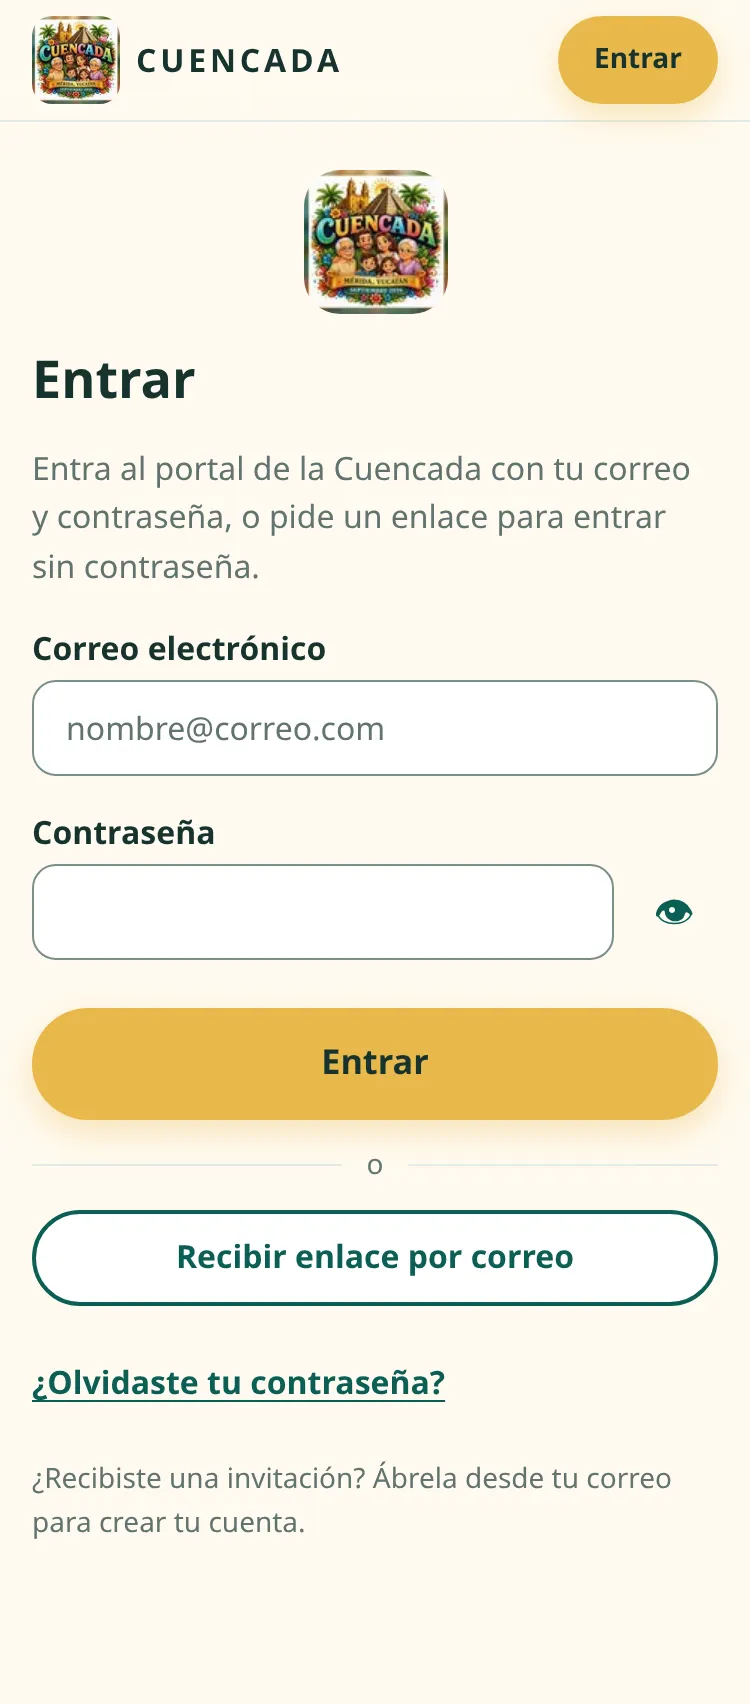
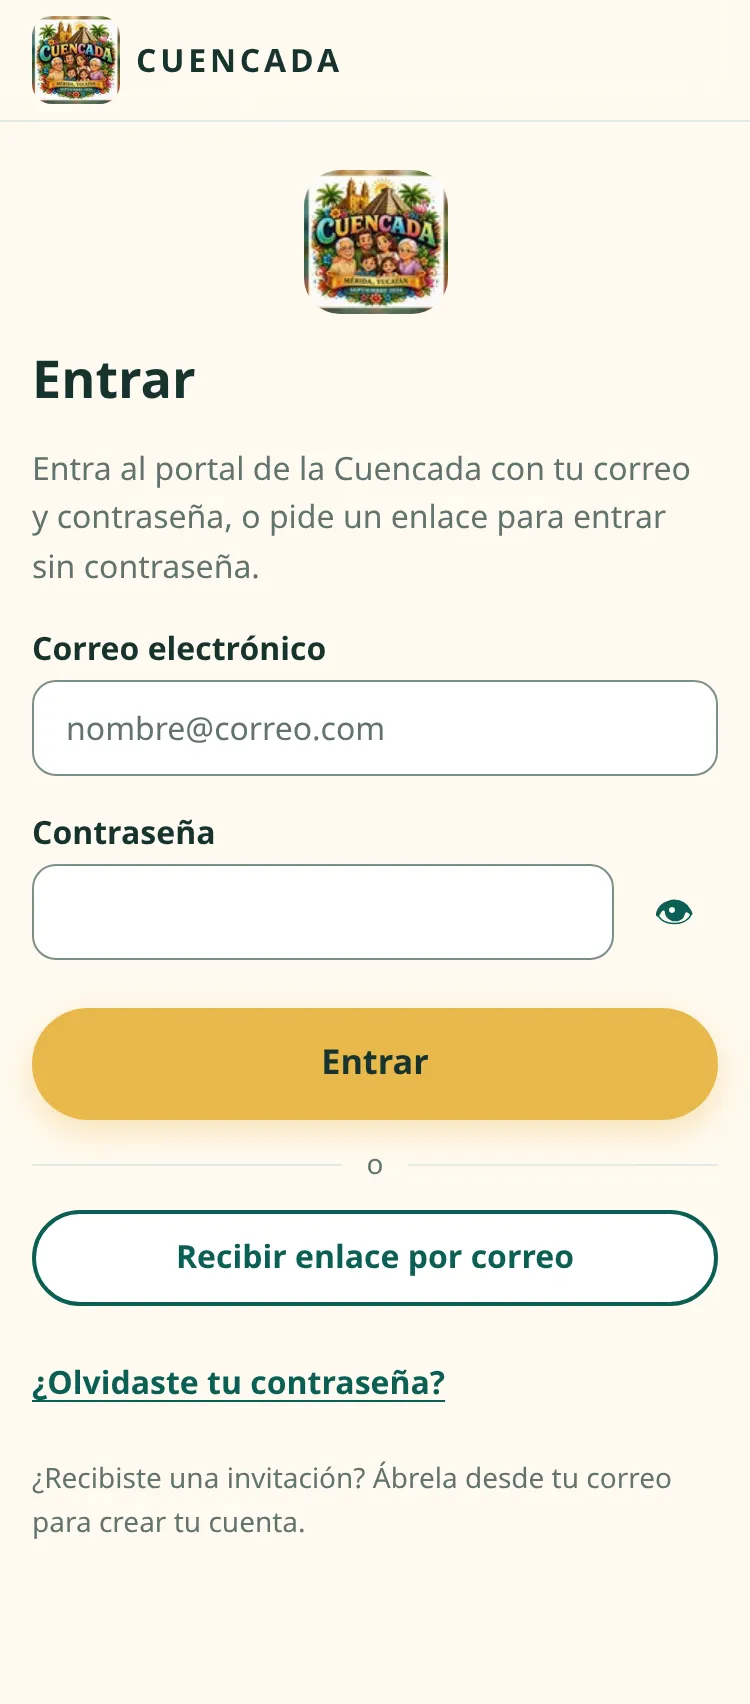
T1-FE: WP review log for PR #10 round 1; re-take screenshots
Claude-Session: https://claude.ai/code/session_01Bj2xLmagfFJ5w53HEUn9Sj

Changed region(s): [[0.736, 0.0, 0.9813, 0.0933]]

diff --git a/docs/coordination/WP-T1-FE.md b/docs/coordination/WP-T1-FE.md
@@ -156,9 +156,66 @@ No changes to `packages/types/src/auth.ts`.
   - Taken with headless Chromium against the Vite dev server, with `/api` proxied to a throwaway stub. Neither the stub nor the temporary config was committed.
   - **Horizontal overflow** is 0 px at 320, 375 and 1280 on all four pages, measured as the max `getBoundingClientRect().right` of every element in `<main>` minus the viewport width.
 
+## PR #10 review round 1 (Security M1/L2, TL #1/#2/#4, nits)
+- **M1, no silent account switching / login CSRF [SEC]** (`components/SessionConflict.tsx`):
+  - `useSessionGate()` returns `waiting` (boot refresh still running: show a spinner and do nothing), `conflict` (someone is logged in) or `clear`.
+  - **`/entrar/enlace` never consumes on load.**
+    - Anonymous visitors see "Entrar a la Cuencada" with one "Entrar" button, and the token is consumed only on tap. That also stops JS-running link scanners from burning it.
+    - Logged-in users see "Ya tienes la sesión abierta como {displayName}. ¿Quieres cerrar sesión y entrar con este enlace?". [Cerrar sesión y continuar] awaits `logout()` and then consumes; [Seguir como {displayName}] discards the token and goes home.
+  - **`/invitacion` and `/restablecer`:** the same interstitial comes before the accept or reset form. Invite inspect still runs on load: it's read-only and doesn't burn the token.
+  - **`/verificar`:** consumes only on a tap ("Confirmar mi correo", or "Ahora no", which discards the token).
+    - When logged in, the page names the account and says that confirming doesn't change the session.
+    - It **doesn't log the user out**: verify returns 204 and never creates or switches a session, and forcing a logout would break the common "verify my own email while logged in" case.
+    - The server decides if the token belongs to another account.
+  - **Defense in depth** (authorized edit to `app/store.ts`, plus `authSlice`):
+    - `applyCredentials` bumps `sessionEpoch` when the incoming `user.id` differs from the current one.
+    - A listener on `credentialsReceived` / `tokenRefreshed` dispatches `baseApi.util.resetApiState()` on an A → B switch (`didSwitchUser`).
+- **L2, resend cooldown:** after a successful resend, "Reenviar enlace" is disabled for 60 s with a visible "Reenviar en 0:59" countdown. The cooldown is module-level, so the banner and `/verificar` share it.
+- **TL #1, `MorePage` logout:**
+  - "Cerrar sesión" disables itself (loading), then awaits `navigate("/")` **and** the page unmounting, raced against a 1.5 s timeout (`LOGOUT_NAVIGATION_TIMEOUT_MS`).
+  - `logout()` runs in `finally`, so a stuck navigation or a future `useBlocker` can delay the logout but never skip it.
+  - Waiting for the unmount is still needed: in RR7 the navigation promise can settle before the old tree is gone, and that was the original race.
+- **TL #2, banner fails soft:** the lazy `VerifyEmailBanner` import catches a load failure, reports it with `reportUnexpected`, and renders `null`, so the shell never reaches the route error boundary.
+- **TL #4, autocomplete and toggles:**
+  - The login email uses `autocomplete="username"`.
+  - Each show/hide toggle is named after its field ("Mostrar contraseña temporal", "Mostrar confirmación", …) and reads "Ocultar …" while visible. I dropped `aria-pressed` so the state isn't announced twice.
+  - `PasswordField` re-hides the password on its form's `submit` event (Security I1).
+- **Nits:**
+  - `SessionAction` hides "Entrar" on `/entrar` and `/entrar/*`.
+  - A reset while logged in also calls `broadcastLogout()`. With the interstitial, this branch is now defensive only, because the user logs out first through `logout()`, which already broadcasts.
+  - The masked email is shown once on `/invitacion`, in the banner; the field hint no longer repeats it.
+- **`POST /auth/logout-all`** (T1-BE, still on `wp/t1-be-auth`): the `logoutAll` endpoint is added but unused, with `TODO(T1-BE merge)`. "Cerrar sesión en todos los dispositivos" keeps revoke-others + `logout()` until that merges.
+- **Contract paths confirmed:** `POST /api/auth/email/verify-request` and `POST /api/auth/email/verify`.
+- **Merged `origin/main`** (T2-FE, #11), following the TL recipe:
+  - `AppLayout` keeps T2's `bottomNavItems(programaPath)`, `topNavItems` and `useProgramaPath()` alongside `showStatus` / `showVerify` / `minimalChrome` and the lazy banner.
+  - `bottomNav = minimalChrome ? undefined : <BottomNav items={bottomNavItems(programaPath)} …/>`.
+  - One T2 test ("points Programa at the featured edition…") now renders `/chat` logged in, because an anonymous `/chat` redirects to `/entrar`, which has no BottomNav.
+- **`apps/web/test/msw.ts`** (authorized): `defaultHandlers` (`/cuencadas/home` → `makeMemoriesHome()`, plus Home's `/cuencadas` and `/announcements`) and `createTestServer(...handlers)`.
+  - Every T1 and app test that renders the layout uses it, with `onUnhandledRequest: "error"` kept.
+  - The remaining "unhandled request" stderr comes from T2's own admin and year-page tests, which don't use this helper.
+- **New tests:**
+  - magic link: no consume on load, consume on tap, waits while restoring, interstitial with no consume, logout-then-consume order, keep session
+  - invite and reset interstitials
+  - verify: tap-only, logged-in notice, "Ahora no"
+  - `store.test.ts`: A → B clears the cache and bumps the epoch for both actions; same user keeps the cache
+  - resend countdown (fake timers)
+  - toggle labels, re-hide on submit, `username` autocomplete, no TopNav "Entrar" on `/entrar`
+  - `MorePage.pendingNavigation.test.tsx`: the Home chunk never resolves; the button is disabled and the logout still happens
+  - `AppLayout.bannerFailure.test.tsx`: the banner module fails to load; the shell renders and no error page appears
+- **Verification:**
+  - `pnpm lint`: 0 diagnostics (330 files).
+  - `pnpm typecheck`: 6/6.
+  - `pnpm test` ×2: 68 files, 652 passed both times.
+  - `pnpm build` succeeds. Size: **167.72 kB gzip** initial JS (budget 190). The banner chunk is 0.91 KB and `MagicLinkPage` 1.04 KB.
+  - Screenshots re-taken (`entrar` has no TopNav "Entrar"; `invitacion` shows the mask once). 0 px overflow at 320, 375 and 1280.
+
 ## Review log
 - 2026-10-06, orchestrator decisions:
   - wrong-current-password mapping (400 `VALIDATION` + 401)
   - IP removed from the sessions page
   - Requests 1–4 applied as app-owned changes, in a separate commit
   - contract gaps resolved, with `logout-all` as a follow-up
+- 2026-10-06, PR #10 round 1:
+  - **TL:** approved, with non-blocking items #1, #2 and #4 addressed. #3 (merge order) is moot now that T2 merged first, and `origin/main` is merged in.
+  - **Security:** changes requested for M1, now fixed. L2 and I1 are fixed. L1 (open-invite email probing) is left to T1-BE rate limiting.
+  - Details in the section above.
